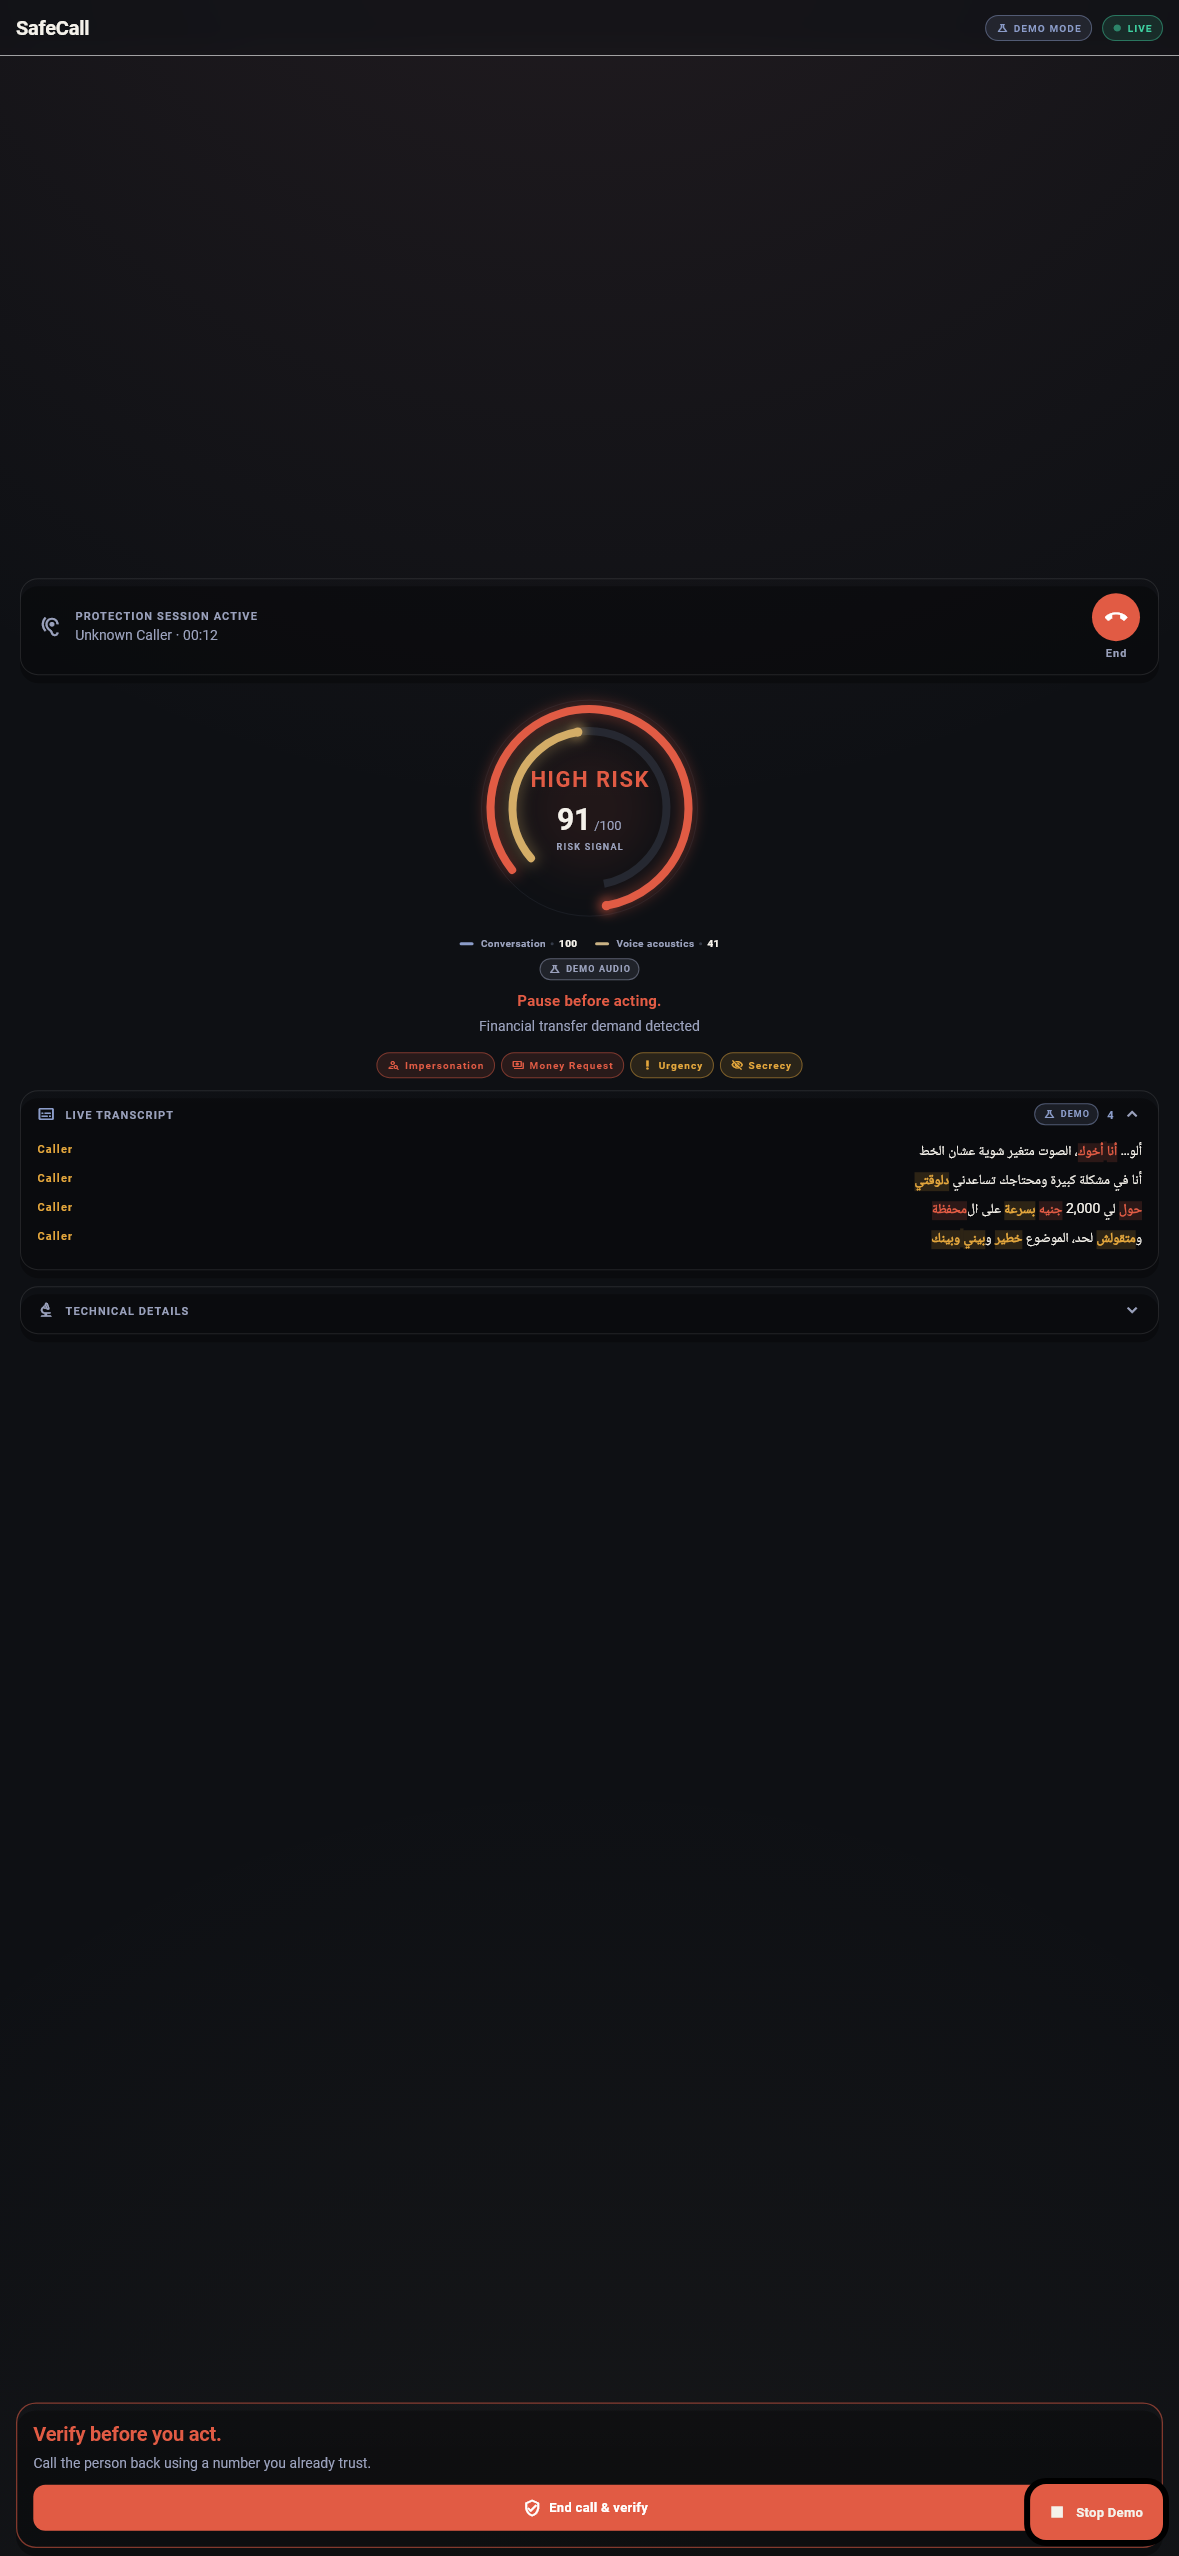
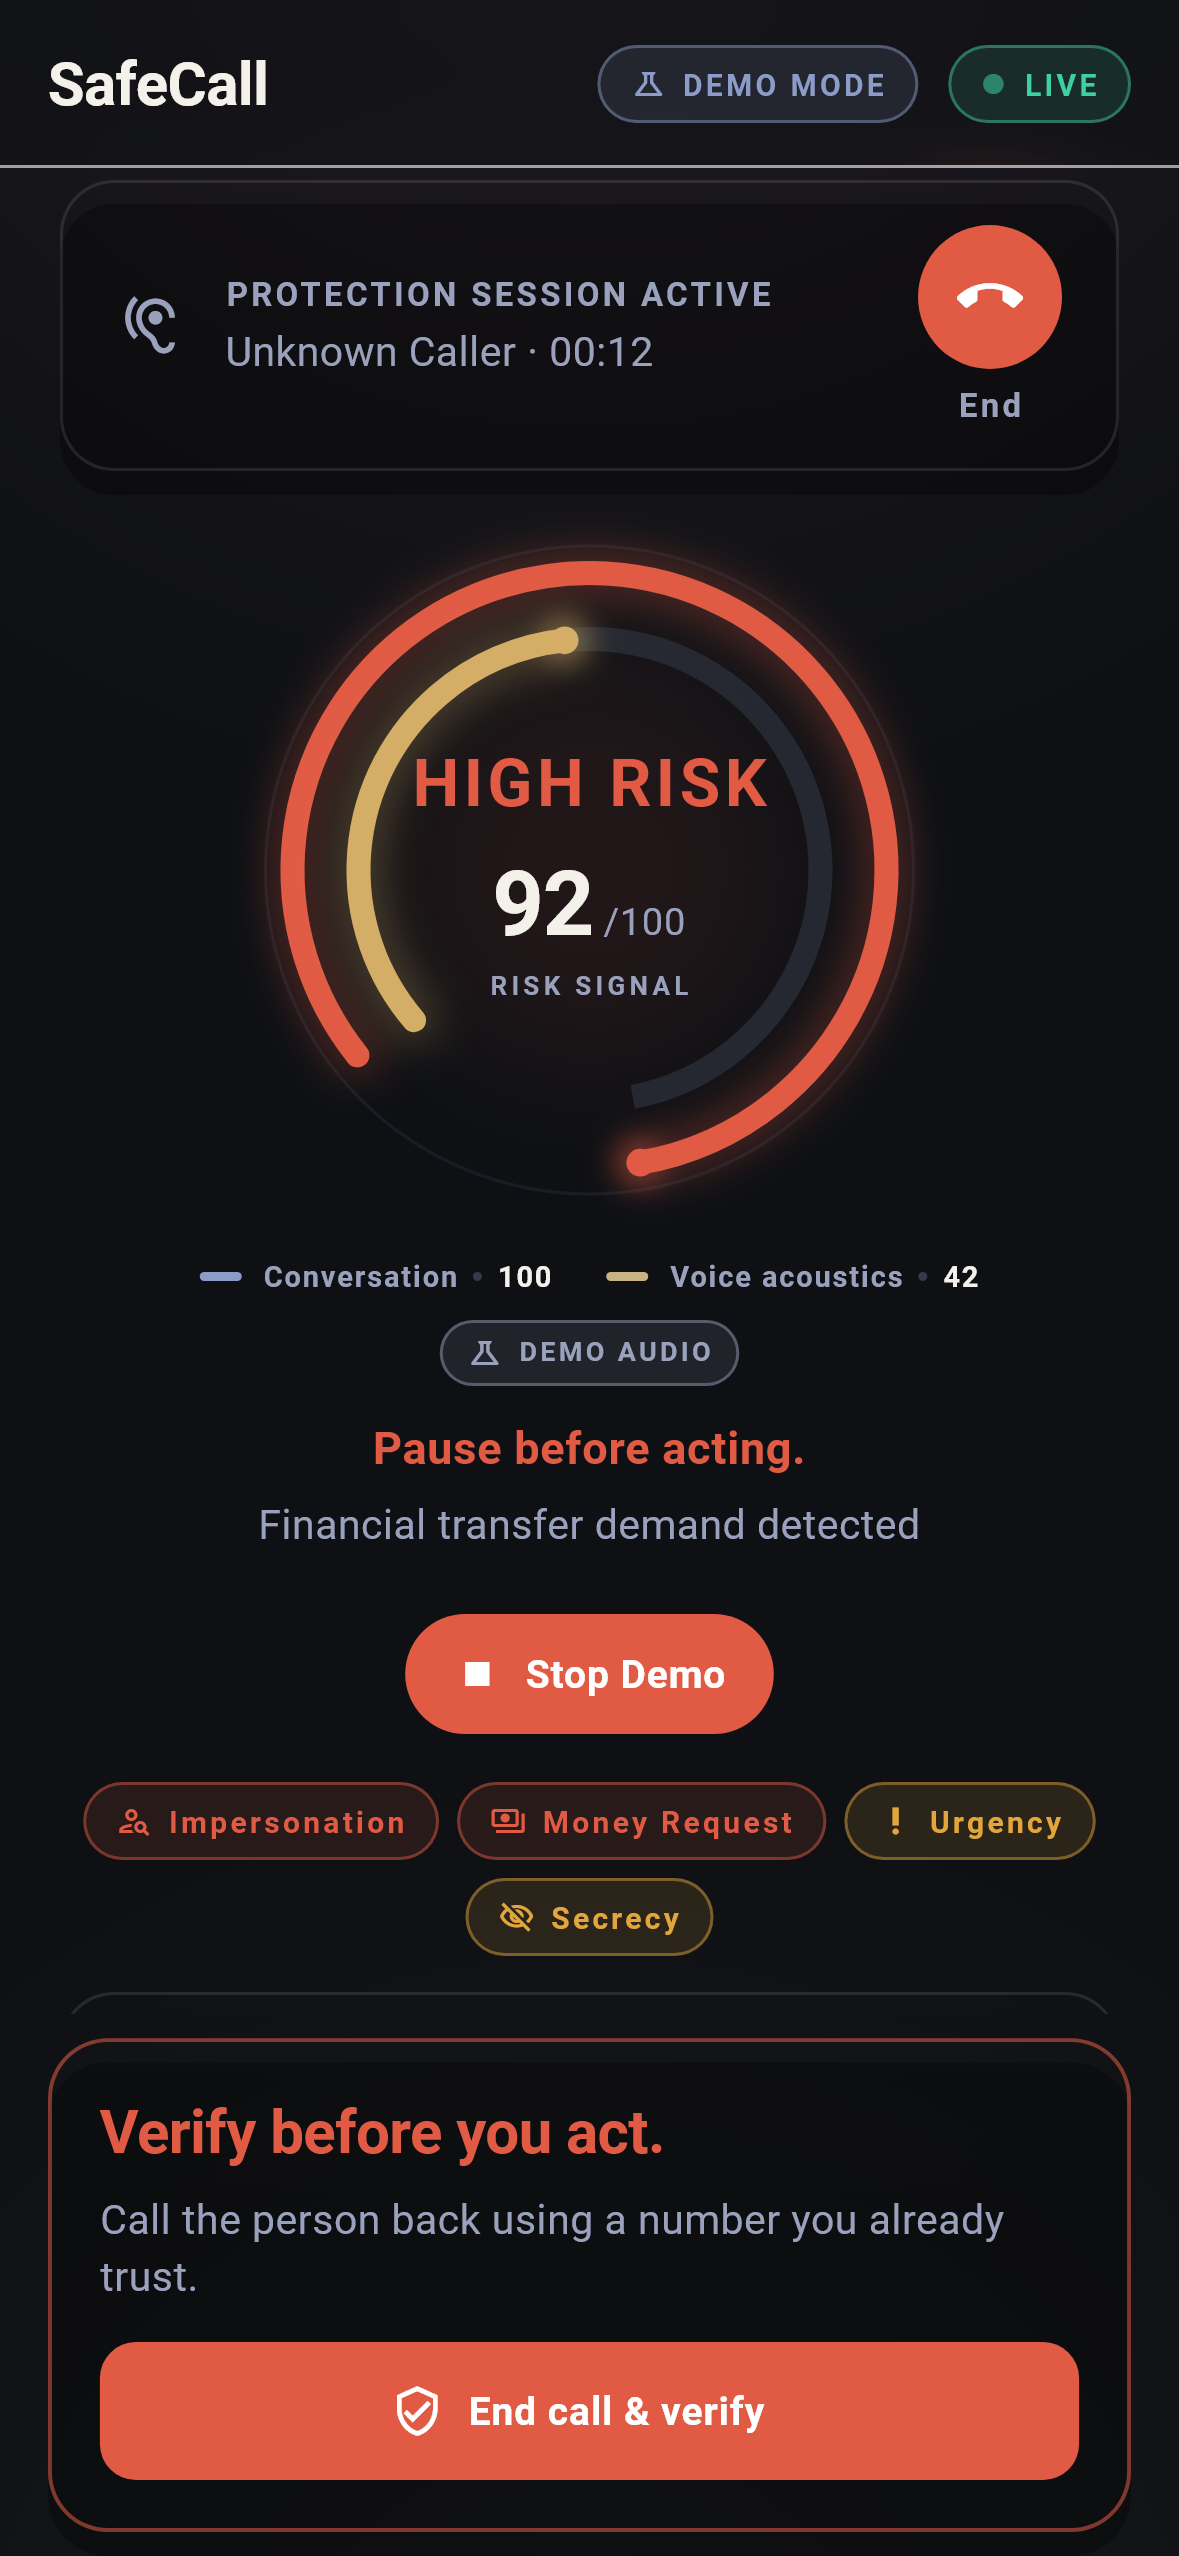
test: capture judging screenshots at real mobile scale
Generated with [Devin](https://devin.ai)

diff --git a/test/screenshot_capture_test.dart b/test/screenshot_capture_test.dart
@@ -1,18 +1,27 @@
 // Submission screenshot capture — renders REAL app screens at the
 // Shipaton-required 1179×2556 portrait size into
-// `submission/screenshots/`. Not a stretched upscale: each frame is
-// laid out natively at the target resolution.
+// `submission/screenshots/`.
+//
+// Capture architecture: the test view is configured as a real phone
+// — 1179×2556 physical pixels at devicePixelRatio 3.0, so Flutter
+// lays the app out at a realistic 393×852 logical viewport (no
+// desktop-width layout artifacts). Output is then rasterized through
+// a RepaintBoundary.toImage(pixelRatio: 3.0), which repaints that
+// logical layout at full 1179×2556 resolution — a true render, never
+// an upscale of a smaller frame.
 //
 // Run explicitly (skipped in normal `flutter test` runs):
 //   flutter test test/screenshot_capture_test.dart --update-goldens
 //     --dart-define=CAPTURE_SHOTS=true
 //
-// Loads Roboto from the Flutter SDK material_fonts cache so golden
-// output uses real glyphs instead of the Ahem test font.
+// Loads Roboto from the Flutter SDK material_fonts cache so output
+// uses real glyphs instead of the Ahem test font.
 
 import 'dart:io';
+import 'dart:ui' as ui;
 
 import 'package:flutter/material.dart';
+import 'package:flutter/rendering.dart';
 import 'package:flutter/services.dart';
 import 'package:flutter_bloc/flutter_bloc.dart';
 import 'package:flutter_localizations/flutter_localizations.dart';
@@ -43,6 +52,11 @@ import 'package:voxguard/features/recording/presentation/screens/analyze_recordi
 
 const _enabled = bool.fromEnvironment('CAPTURE_SHOTS');
 const _shotSize = Size(1179, 2556); // Shipaton-required, no frame
+const _devicePixelRatio = 3.0; // → 393×852 logical phone viewport
+
+/// Render boundary wrapped around every captured screen — the
+/// 3× rasterization source for the exact-size PNG output.
+final _captureBoundary = GlobalKey();
 
 Future<void> _loadRoboto() async {
   // flutter_tester lives under <sdk>/bin/cache/artifacts/engine/… —
@@ -134,8 +148,30 @@ Widget _shell(Widget child,
     // MaterialApp's ambient DefaultTextStyle derives from the themed
     // textTheme — transcript bubbles (Text.rich) merge it, so the
     // fontFamilyFallback reaches Arabic spans with no explicit family.
-    home: child,
+    home: RepaintBoundary(key: _captureBoundary, child: child),
   );
+}
+
+/// Rasterizes the wrapped screen at 3× — the logical 393×852 layout
+/// becomes an exact 1179×2556 PNG. Writes are unconditional: this
+/// file only runs under CAPTURE_SHOTS, where regeneration is the
+/// whole point.
+Future<void> _capturePng(WidgetTester tester, String relativePath) async {
+  // Rasterization runs on the real async loop — the fake-async zone
+  // widget tests live in would starve the engine's raster task.
+  await tester.runAsync(() async {
+    final boundary = _captureBoundary.currentContext!
+        .findRenderObject()! as RenderRepaintBoundary;
+    final image = await boundary.toImage(pixelRatio: _devicePixelRatio);
+    final bytes = await image.toByteData(format: ui.ImageByteFormat.png);
+    image.dispose();
+    if (bytes == null) {
+      throw StateError('PNG encode failed for $relativePath');
+    }
+    final file = File(relativePath);
+    await file.parent.create(recursive: true);
+    await file.writeAsBytes(bytes.buffer.asUint8List());
+  });
 }
 
 Future<void> _settle(WidgetTester tester, [int frames = 8]) async {
@@ -178,16 +214,14 @@ void main() {
       String dir = 'screenshots',
       Brightness brightness = Brightness.dark,
       Locale? locale}) async {
+    // Phone-shaped view: physical pixels ÷ DPR = 393×852 logical.
     tester.view.physicalSize = _shotSize;
-    tester.view.devicePixelRatio = 1.0;
+    tester.view.devicePixelRatio = _devicePixelRatio;
     addTearDown(tester.view.reset);
     await tester.pumpWidget(
         _shell(child, brightness: brightness, locale: locale));
     await _settle(tester, frames);
-    await expectLater(
-      find.byWidget(child),
-      matchesGoldenFile('../submission/$dir/$name.png'),
-    );
+    await _capturePng(tester, 'submission/$dir/$name.png');
   }
 
   testWidgets('capture submission screens', (tester) async {
@@ -288,7 +322,7 @@ void main() {
     SharedPreferences.setMockInitialValues(
         const {'voxguard.onboarding_version': 1});
     tester.view.physicalSize = _shotSize;
-    tester.view.devicePixelRatio = 1.0;
+    tester.view.devicePixelRatio = _devicePixelRatio;
     addTearDown(tester.view.reset);
     await tester.pumpWidget(_shell(const SafeCallScreen()));
     await _settle(tester);
@@ -300,19 +334,16 @@ void main() {
     await _settle(tester, 12);
 
     // Trigger the scripted attack; lines land every ~1.4 s.
-    // Target the FAB specifically — the mode card uses the same icon.
-    final fab =
-        find.widgetWithIcon(FloatingActionButton, Icons.science_outlined);
-    if (fab.evaluate().isNotEmpty) {
-      await tester.tap(fab);
+    // The simulate control lives in-flow under the lens (not a FAB —
+    // a floating button would cover the safety CTA at phone width).
+    final trigger = find.text('Simulate Scam');
+    if (trigger.evaluate().isNotEmpty) {
+      await tester.tap(trigger);
       for (var i = 0; i < 40; i++) {
         await tester.pump(const Duration(milliseconds: 250));
       }
     }
-    await expectLater(
-      find.byType(SafeCallScreen),
-      matchesGoldenFile('../submission/screenshots/02_safecall_demo.png'),
-    );
+    await _capturePng(tester, 'submission/screenshots/02_safecall_demo.png');
     // Close the bloc directly — provider disposal doesn't await the
     // async teardown, and its demo-audio timer would otherwise still
     // be pending when the test invariant check runs.

diff --git a/lib/features/protection/presentation/screens/safecall_screen.dart b/lib/features/protection/presentation/screens/safecall_screen.dart
@@ -263,6 +263,49 @@ class _SafeCallViewState extends State<_SafeCallView>
                         ),
                       ],
                       const SizedBox(height: 16),
+                      // Demo control lives in-flow beside the demo
+                      // provenance — a floating action button here
+                      // would cover the safety CTA on real phones.
+                      if (isDemo)
+                        Padding(
+                          padding: const EdgeInsets.only(bottom: 12),
+                          child: Center(
+                            child: FilledButton.icon(
+                              onPressed: () {
+                                AppHaptics.tap();
+                                context.read<SafeCallBloc>().add(
+                                    const SimulateDemoAttackEvent());
+                              },
+                              icon: Icon(
+                                demoActive
+                                    ? Icons.stop
+                                    : Icons.science_outlined,
+                                size: 16,
+                              ),
+                              label: Text(
+                                demoActive
+                                    ? l10n.stopSimulation
+                                    : l10n.simulateScam,
+                              ),
+                              style: FilledButton.styleFrom(
+                                backgroundColor: demoActive
+                                    ? p.statusDanger
+                                    : p.bgElevated,
+                                foregroundColor: demoActive
+                                    ? Colors.white
+                                    : p.textPrimary,
+                                shape: RoundedRectangleBorder(
+                                  borderRadius:
+                                      BorderRadius.circular(999),
+                                ),
+                                padding:
+                                    const EdgeInsets.symmetric(
+                                        horizontal: 16,
+                                        vertical: 8),
+                              ),
+                            ),
+                          ),
+                        ),
                       if (semantic.evidenceCategories.isNotEmpty)
                         Padding(
                           padding: const EdgeInsets.only(bottom: 12),
@@ -315,28 +358,6 @@ class _SafeCallViewState extends State<_SafeCallView>
               ),
             ],
           ),
-          floatingActionButton: isDemo
-              ? FloatingActionButton.extended(
-                  onPressed: () {
-                    AppHaptics.tap();
-                    context
-                        .read<SafeCallBloc>()
-                        .add(const SimulateDemoAttackEvent());
-                  },
-                  backgroundColor: demoActive
-                      ? p.statusDanger
-                      : p.bgElevated,
-                  foregroundColor: p.textPrimary,
-                  icon: Icon(
-                    demoActive ? Icons.stop : Icons.science_outlined,
-                  ),
-                  label: Text(
-                    demoActive
-                        ? l10n.stopSimulation
-                        : l10n.simulateScam,
-                  ),
-                )
-              : null,
         );
       },
     );
